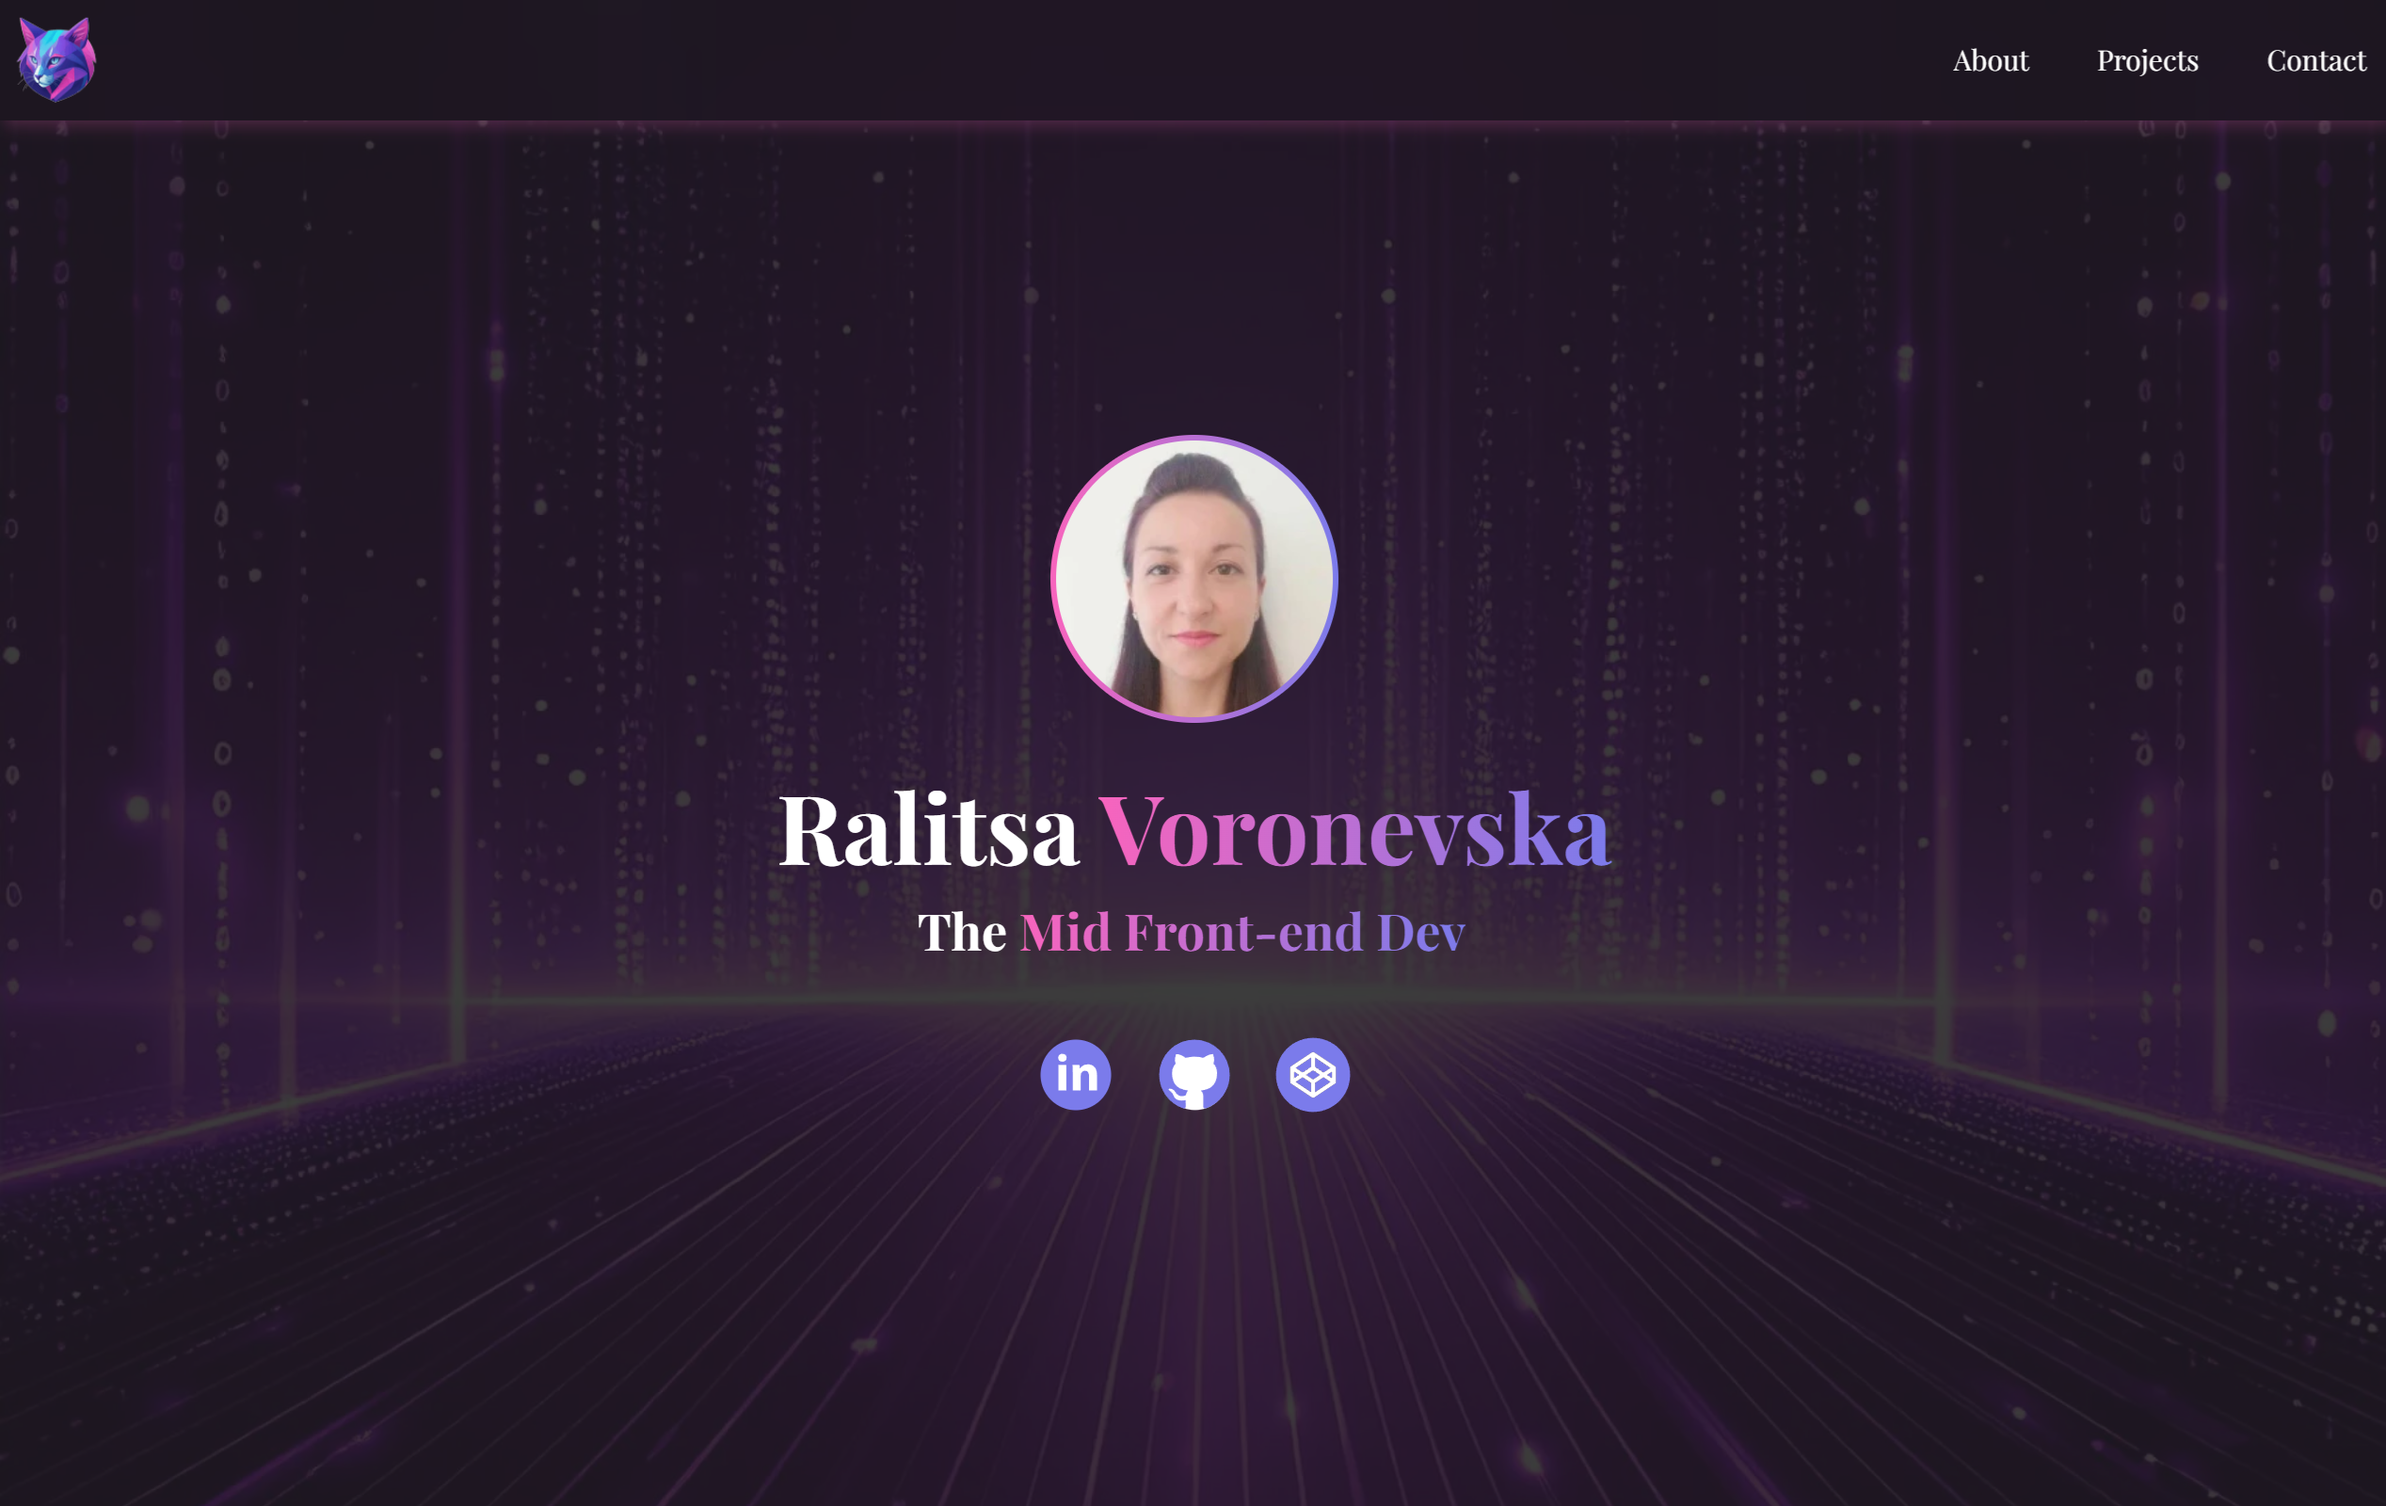
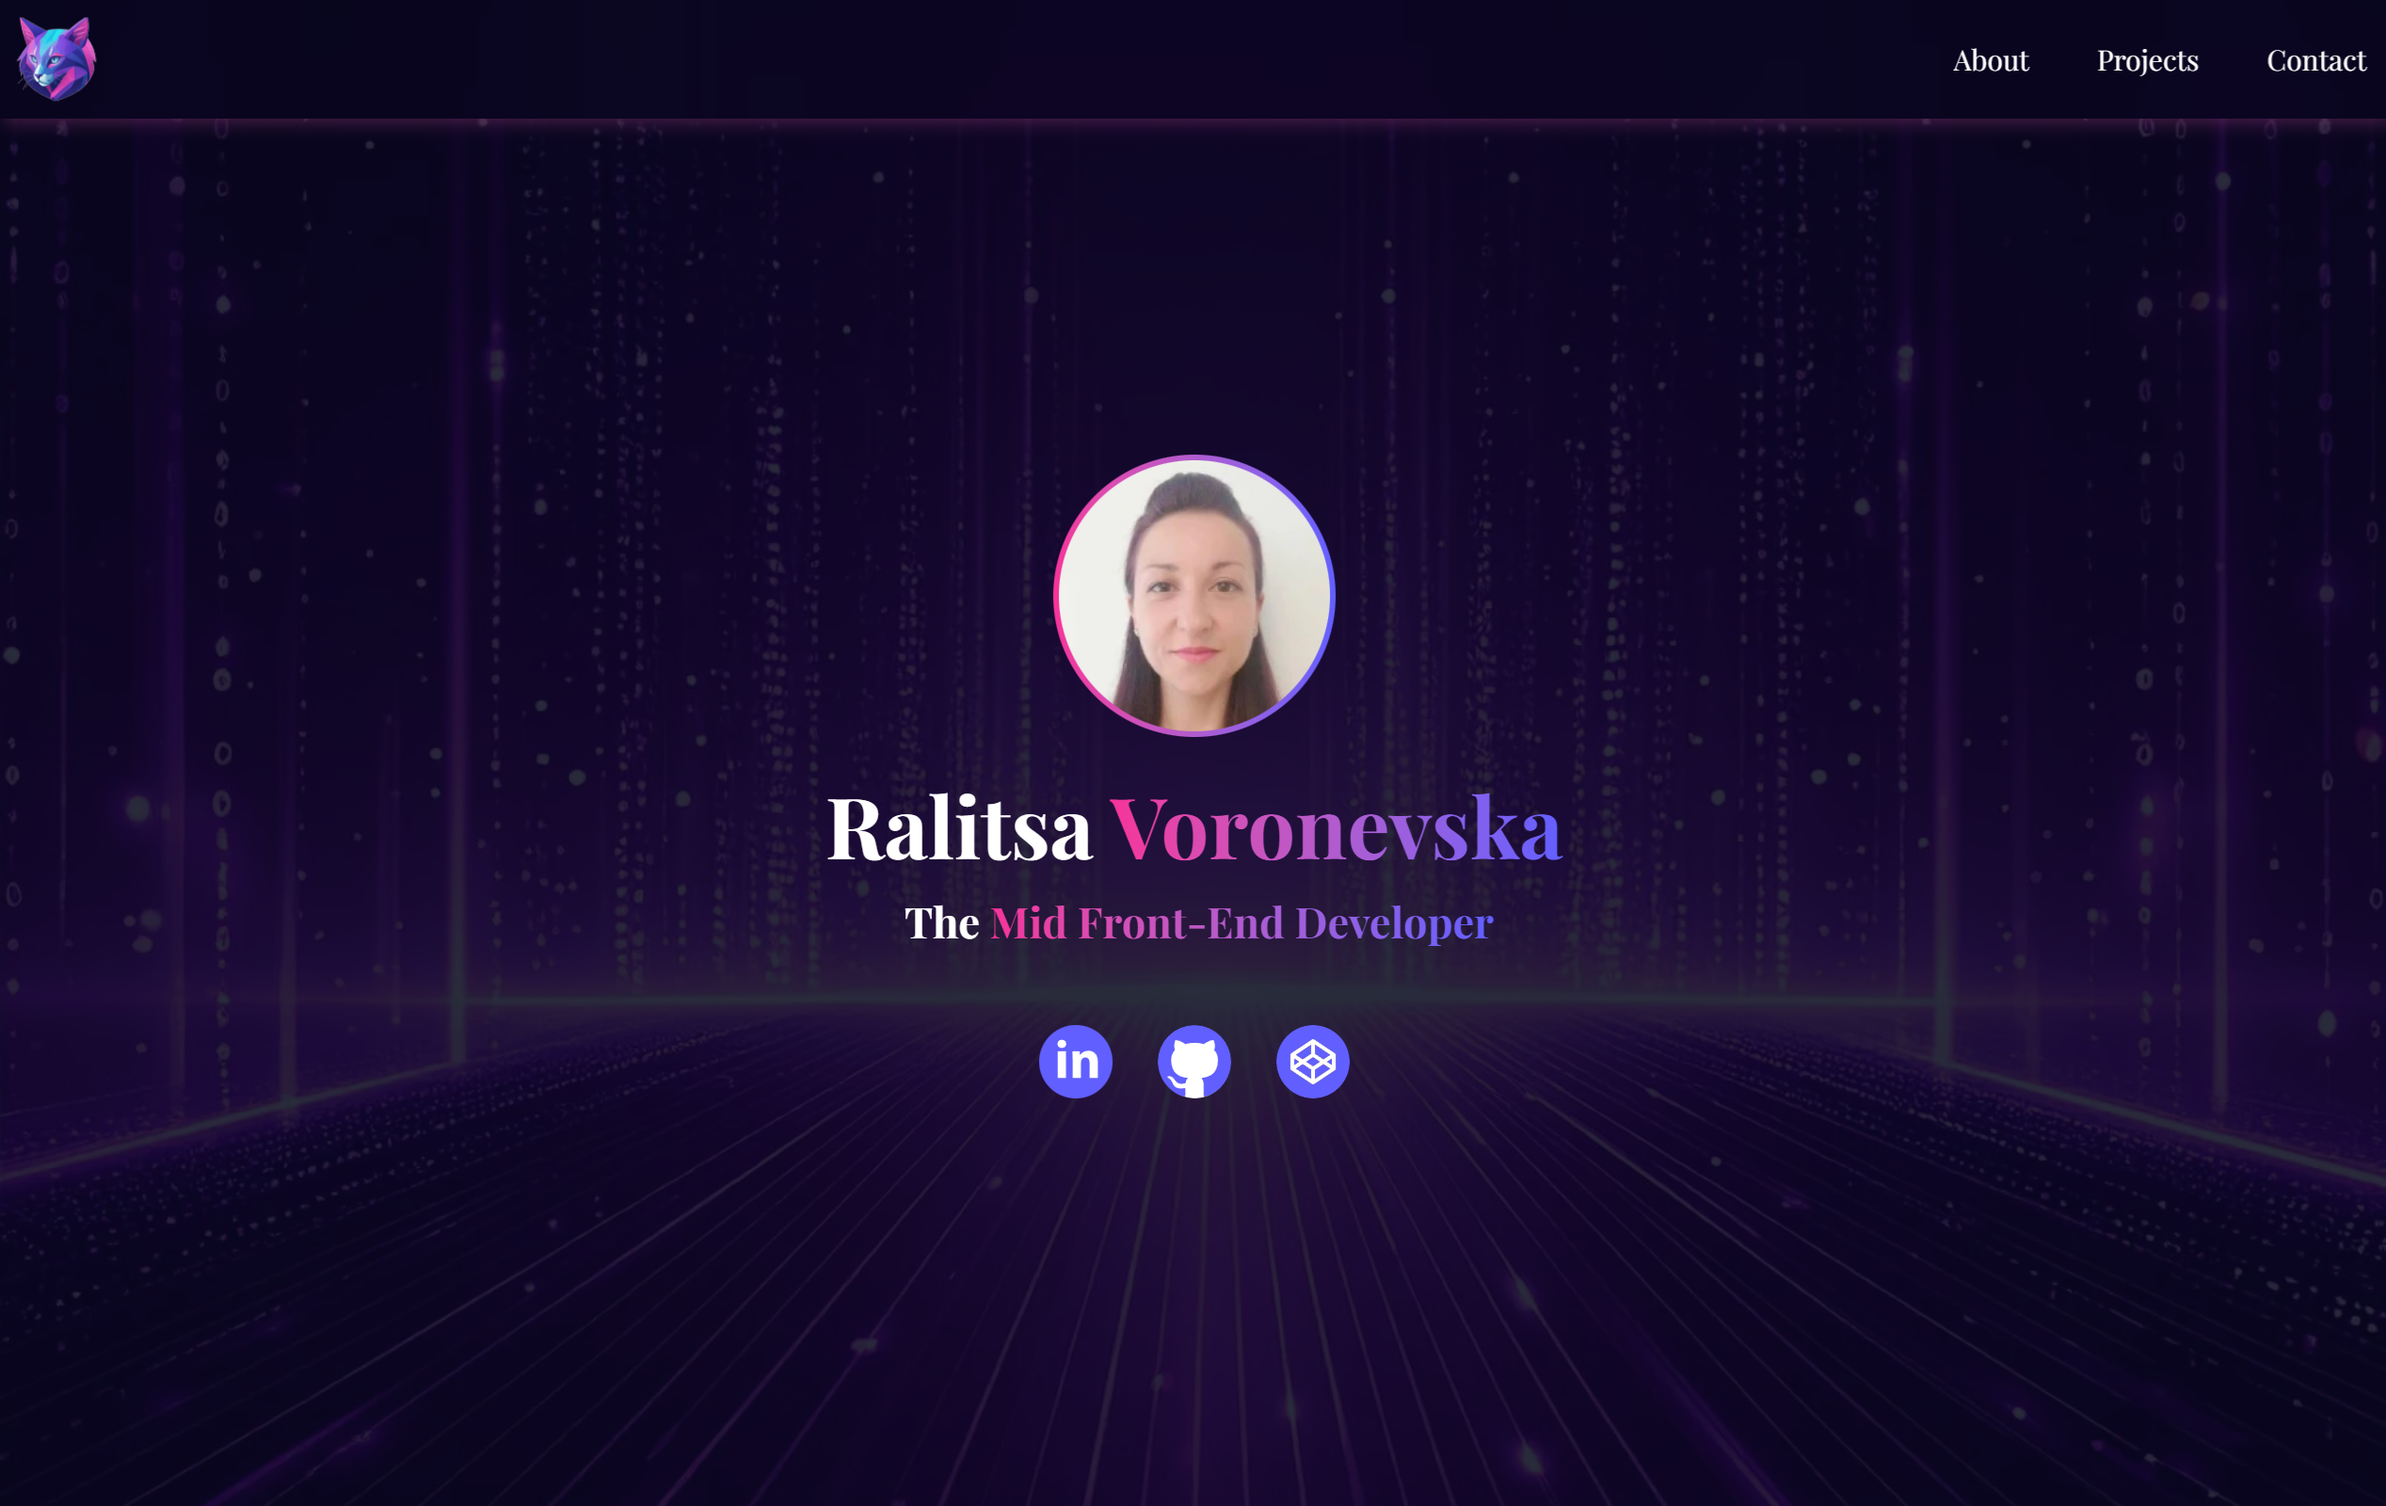
Updated styles, images and refind components

Changed region(s): [[0.3116, 0.5312, 0.6856, 0.75], [0.4363, 0.2812, 0.5609, 0.5], [0.0, 0.0312, 0.0312, 0.0625]]

diff --git a/src/main.css b/src/main.css
@@ -8,25 +8,17 @@
 /* === Base Styles === */
 @layer base {
   .bg-container {
-    @apply fixed top-0 left-0 w-full h-screen -z-2 will-change-transform bg-cover bg-center flex items-center justify-center bg-no-repeat bg-fixed bg-[url('/assets/images/full-bg.webp')];
+    @apply bg-scroll md:bg-fixed fixed top-0 left-0 w-full h-screen -z-2 will-change-transform bg-cover bg-center flex items-center justify-center bg-no-repeat bg-[url('/assets/images/full-bg.webp')];
   }
 
   .overlay {
-    @apply bg-slate-950/85 fixed top-0 left-0 w-full h-screen -z-1;
-  }
-
-  /* Responsive: disable fixed attachment on mobile */
-  @media (max-width: 768px) {
-    .bg-container,
-    .overlay {
-      @apply bg-scroll;
-    }
+    @apply bg-slate-950/85 bg-scroll md:bg-fixed fixed top-0 left-0 w-full h-screen -z-1;
   }
 
   .content-wrapper {
     @apply relative z-1 min-h-screen;
     .scroll-to-top {
-      @apply flex items-center justify-center fixed bottom-5 right-5 w-13 h-13 rounded-full cursor-pointer z-1000 bg-indigo-500 opacity-0 invisible transition-all duration-500 ease-out shadow-[0_16px_50px_16px_rgba(255,255,255,0.35)] hover:bg-linear-90 hover:from-pink-500 hover:to-indigo-500 hover:to-75% focus:bg-linear-90 focus:from-pink-500 focus:to-indigo-500 focus:to-75% data-[active=true]:visible data-[active=true]:opacity-100 data-[active=true]:bottom-20;
+      @apply flex items-center justify-center fixed bottom-5 right-5 w-13 h-13 rounded-full cursor-pointer z-1000 bg-indigo-500 opacity-0 invisible transition-colors duration-500 ease-out shadow-[0_16px_50px_16px_rgba(255,255,255,0.35)] hover:bg-linear-90 hover:from-pink-500 hover:to-indigo-500 hover:to-75% focus:bg-linear-90 focus:from-pink-500 focus:to-indigo-500 focus:to-75% data-[active=true]:visible data-[active=true]:opacity-100 data-[active=true]:bottom-20;
     }
   }
 
@@ -35,11 +27,15 @@
   }
 }
 
-/* === Components === */
+/* === Components Styles === */
 @layer components {
-  /* Header Styles */
+  /* Header */
   header {
     @apply fixed inset-x-0 top-0 flex justify-between items-center h-21 z-20 shadow-3xl backdrop-blur-2xl;
+    .logo-link:focus-visible, .logo-link:-webkit-any-link:focus-visible,
+    .logo:focus-visible, .logo:-webkit-any-link:focus-visible {
+       @apply outline-none ring-0;
+    }
     .logo {
       @apply w-20 h-21 bg-[url('/assets/logo.png')] bg-cover bg-center flex items-center justify-center bg-no-repeat
       scale-[0.7059] transition-transform duration-300 ease-in-out hover:scale-75;
@@ -95,28 +91,14 @@
       @apply flex flex-col lg:flex-row;
     }
     .hero-and-skills {
-      @apply bg-slate-950/75 shadow-3xl rounded-2xl p-3 flex flex-col;
-      @media (min-width: 992px) {
-        min-width: 16rem; /* 256px */
-      }
-      @media (min-width: 1200px) {
-        min-width: 21.875rem; /* 350px */
-      }
-      @media (min-width: 1400px) {
-        min-width: 26.5625rem; /* 425px */
-      }
-      @media (min-width: 1600px) {
-        min-width: 21.875rem; /* 350px */
-      }
-      @media (min-width: 1920px) {
-        min-width: 30.3125rem; /* 485px */
-      }
+      @apply bg-slate-950/75 shadow-3xl rounded-2xl p-3 flex flex-col w-full md:min-w-[16rem] lg:min-w-87.5 xl:min-w-106.25 2xl:min-w-87.5;
+      
     }
     .btns-container {
       @apply flex items-center justify-center gap-2 my-4 mx-auto;
     }
     .btn-styles {
-      @apply rounded-md text-white bg-indigo-500 hover:bg-linear-to-r hover:from-indigo-500 hover:to-pink-500 text-base px-4 py-2.5 text-center leading-5 transition-all duration-500;
+      @apply rounded-md text-white transition-colors bg-indigo-500 hover:bg-linear-to-r hover:from-indigo-500 hover:to-pink-500 text-base px-4 py-2.5 text-center leading-5 duration-500;
     }
     .glow-icons {
       @apply flex items-center justify-center flex-wrap mt-3 mx-auto gap-1 md:gap-2;
@@ -124,7 +106,7 @@
     .bio {
       @apply bg-slate-950/75 shadow-3xl rounded-2xl p-3 flex flex-col mt-4 lg:mt-0 lg:ms-4;
       .bio-text {
-        @apply text-2xl md:text-3xl lg:text-2xl xl:text-[28px] 2xl:text-[32px] leading-normal items-center justify-center ps-0 md:p-3 2xl:px-3 mb-0 lg:my-auto;
+        @apply text-2xl md:text-3xl lg:text-[21px] xl:text-[25px] 2xl:text-[30px] leading-normal items-center justify-center ps-0 md:p-3 2xl:px-3 mb-0 lg:my-auto;
       }
     }
   }
@@ -132,26 +114,19 @@
   /* Glow Icons */
   .glow-box {
     @apply relative flex items-center justify-center cursor-pointer;
-    .glow-icon {
-      transform-style: preserve-3d;
-      transition: transform 0.3s ease;
-      @apply flex items-center justify-center bg-white/10 backdrop-blur-sm animate-pulse hover:animate-none transition-all duration-300 hover:scale-110 hover:shadow-[0_0_10px_rgba(255,255,255,1)];
+  }
+  .glow-box .glow-icon {
+    @apply flex items-center justify-center bg-white/10 backdrop-blur-sm animate-pulse hover:animate-none transition-all  transform-3d ease-in duration-300 hover:scale-110 hover:shadow-[0_0_10px_rgba(255,255,255,1)];
+  }
+  .glow-box .tooltip {
+    @apply pointer-events-none absolute -top-10 left-1/2 -translate-x-1/2 bg-indigo-500 text-white text-xs px-2 py-1 rounded-xl opacity-0 invisible translate-y-2 transition-all duration-300 z-10 whitespace-nowrap;
+    /* Arrow using ::after */
+    &::after {
+      @apply content-[''] absolute top-full left-[50%] -ml-[5px] border-[5px] border-solid border-transparent border-t-indigo-500;
     }
-    .tooltip {
-      @apply pointer-events-none absolute -top-10 left-1/2 -translate-x-1/2 bg-black text-white text-xs px-2 py-1 rounded-xl opacity-0 invisible translate-y-2 transition-all duration-300 z-10 whitespace-nowrap;
-      &::after {
-        content: '';
-        position: absolute;
-        top: 100%;
-        left: 50%;
-        margin-left: -5px;
-        border: 5px solid transparent;
-        border-top-color: black;
-      }
-      .tooltip-arrow {
-        @apply absolute left-1/2 bottom-[-7px] -translate-x-1/2 w-0 h-0 border-4 border-transparent border-t-black;
-      }
-    }
+  }
+  .glow-box:hover .tooltip {
+    @apply opacity-100 visible translate-y-0;
   }
 
   /* Projects Section */
@@ -213,6 +188,7 @@
     }
   }
 
+  /* Footer */  
   footer {
     @apply h-15 py-3 flex justify-center items-center shadow-3xl backdrop-blur-2xl; 
     p {

diff --git a/src/components/GlowIcon.vue b/src/components/GlowIcon.vue
@@ -31,9 +31,6 @@
       group-focus/tech:opacity-100 group-focus/tech:visible group-focus/tech:translate-y-0"
     >
       {{ tech.name }}
-      <span
-        class="tooltip-arrow"
-      ></span>
     </span>
     <!-- end of tooltip -->
 

diff --git a/src/components/Header.vue b/src/components/Header.vue
@@ -3,7 +3,7 @@
   <header>
 
     <!-- start of Logo -->
-    <a href="#" aria-label="Home page">
+    <a class="logo-link" href="#" aria-label="Home page">
       <div class="logo"></div>
     </a>
     <!-- end of Logo -->

diff --git a/README.md b/README.md
@@ -76,10 +76,9 @@ Mobile:
 
 # ✨ Features:
 ✅ Modern Matrix-like Themed Personal Portfolio Webpage                                                                                            
-✅ Fixed navigation with slick blur and smooth scroll                                                                                                        
-✅ Showcasing employment with typewritter effect                                                                            
+✅ Fixed navigation with slick blur and smooth scroll                                                                                                           
 ✅ Colourful Classic Developer icons                                                                                                                           
-✅ Elegant scroll-to-top button                                                                                                                                              
+✅ Elegant scroll-to-top button                                                                                                                              
 
 # 🧰 Online resources and tools:
                                                                      
